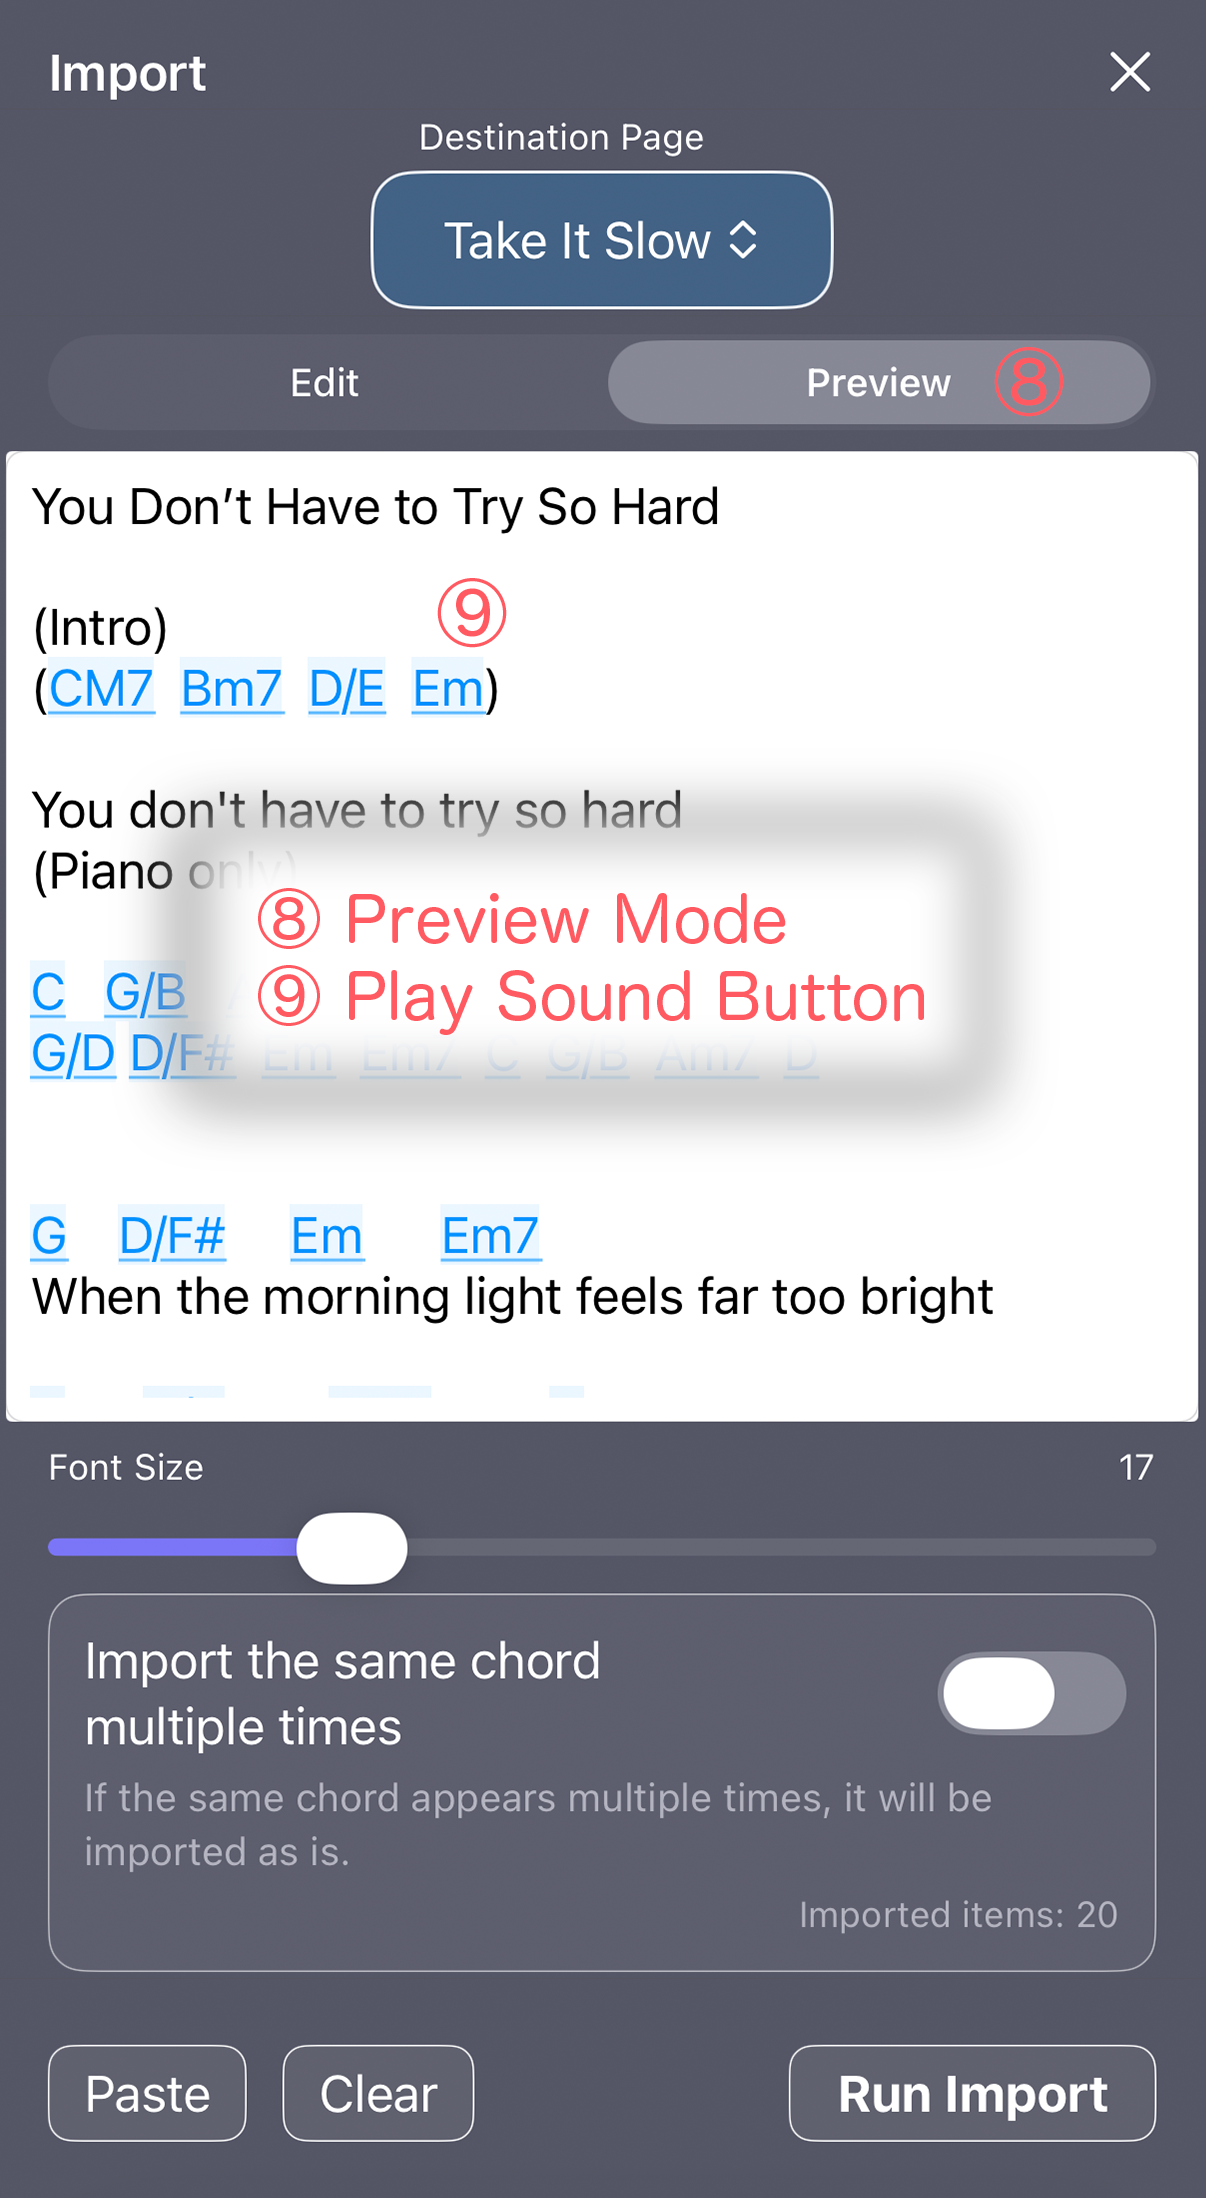
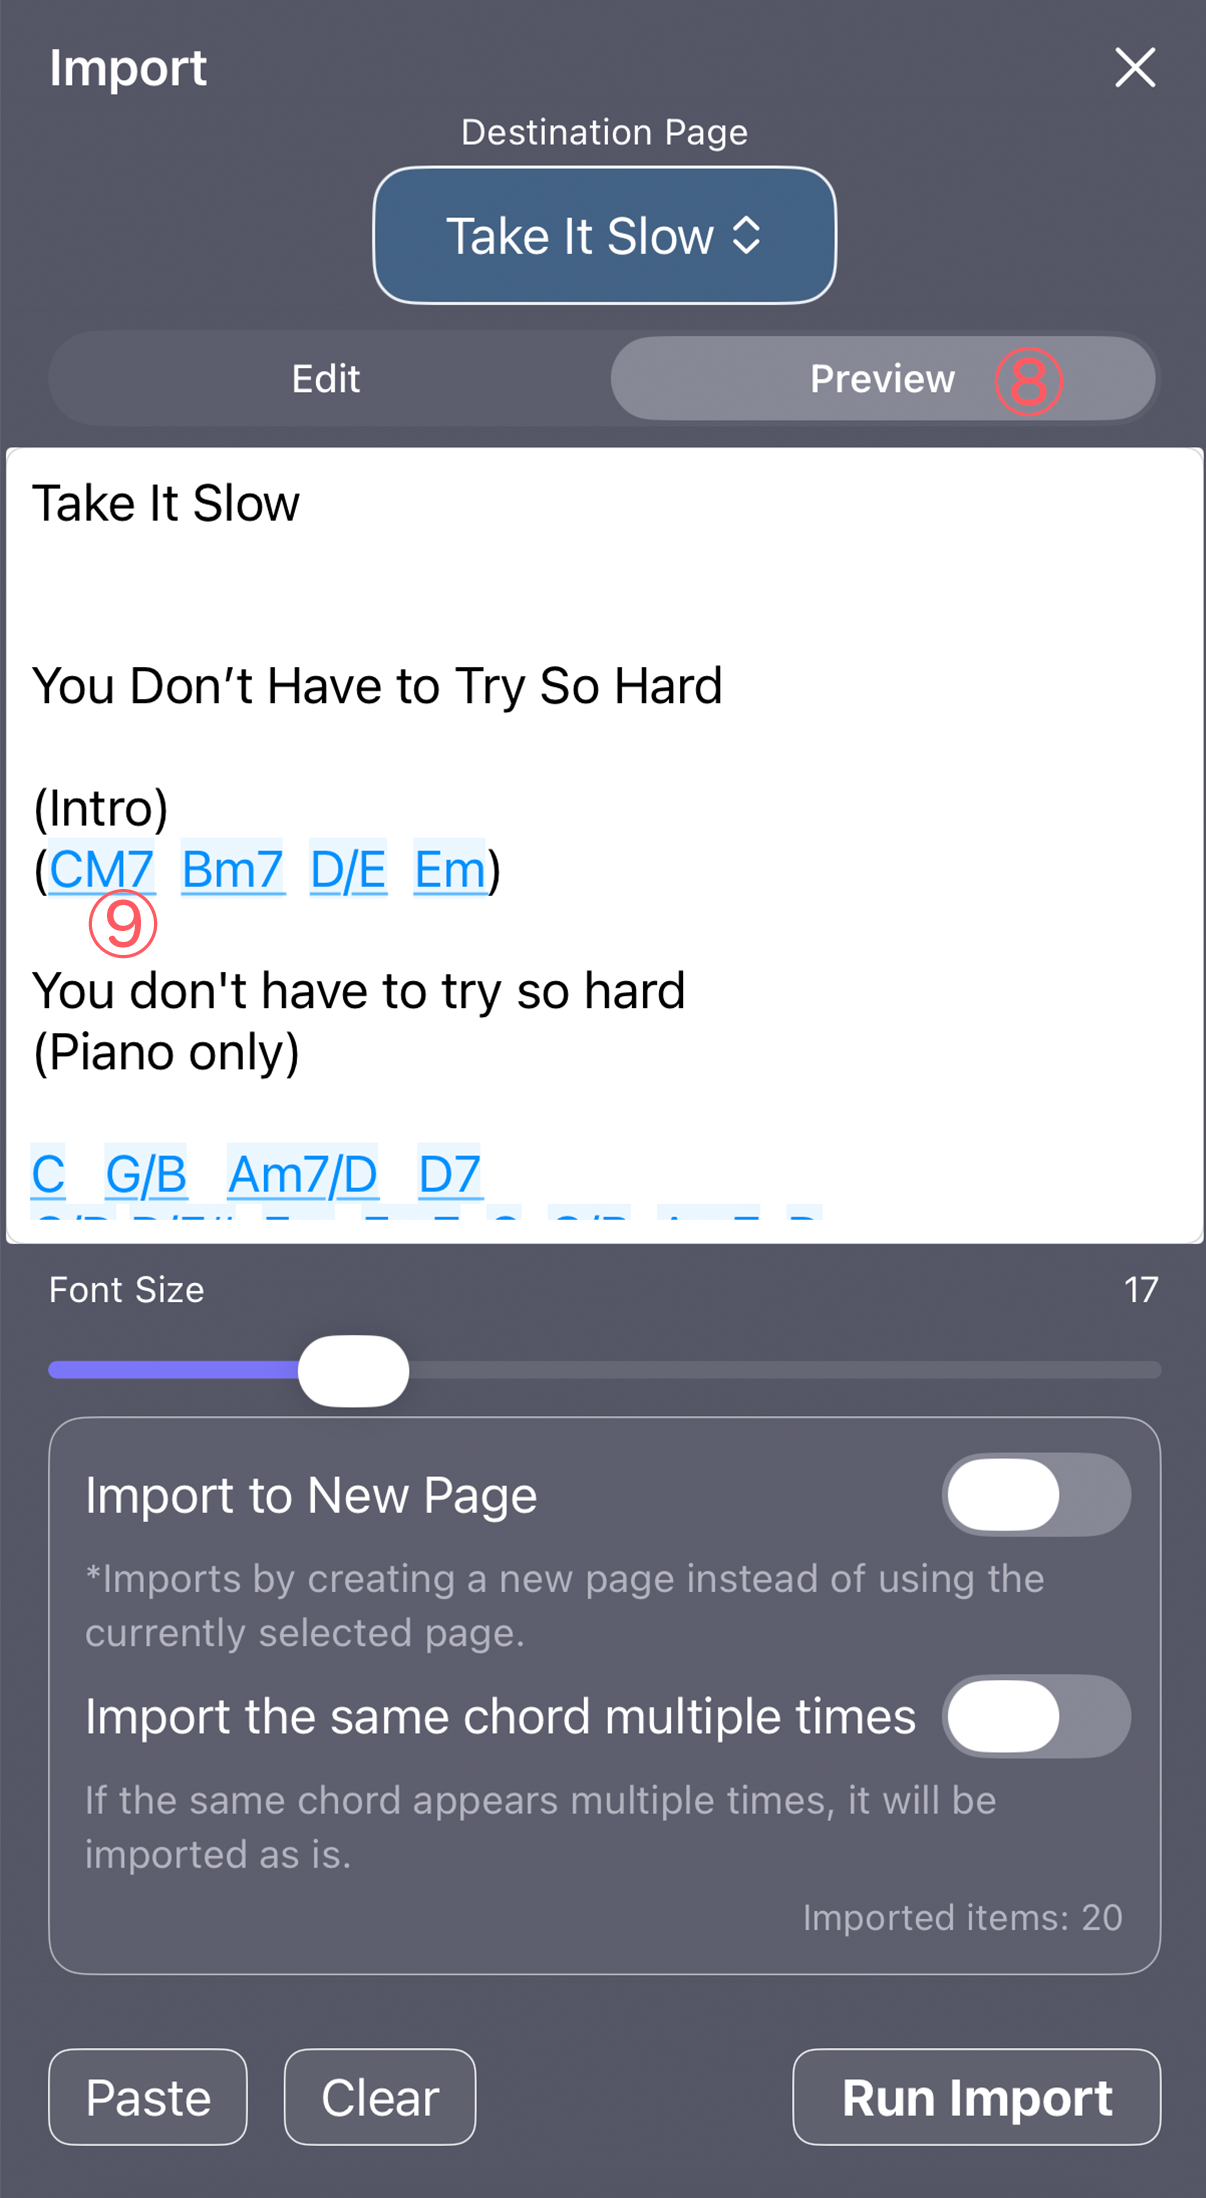
インポートのヘルプ修正

diff --git a/ja/apps/m-piano/help/03_01_import.html b/ja/apps/m-piano/help/03_01_import.html
@@ -119,16 +119,19 @@
 <p><strong>③ フォントサイズ変更スライダー</strong><br>
 表示文字サイズを調整します。編集モードとプレビューモードの両方に反映されます。</p>
 
-<p><strong>④ 同じコードを複数回取り込むスイッチ</strong><br>
+<p><strong>④ 新しいページに取り込むスイッチ</strong><br>
+オンにすると、選択中のページではなく新しいページを作ってインポートします。</p>
+
+<p><strong>⑤ 同じコードを複数回取り込むスイッチ</strong><br>
 オンにすると、同じコードが繰り返し出現してもそのまま取り込みます。</p>
 
-<p><strong>⑤ 貼り付けボタン</strong><br>
+<p><strong>⑥ 貼り付けボタン</strong><br>
 クリップボードのテキストを編集エリアに貼り付けます。</p>
 
-<p><strong>⑥ クリアボタン</strong><br>
+<p><strong>⑦ クリアボタン</strong><br>
 編集エリアの内容をすべて削除します。</p>
 
-<p><strong>⑦ インポート実行ボタン</strong><br>
+<p><strong>⑧ インポート実行ボタン</strong><br>
 解析されたコード進行をMemoに取り込みます（Pro版のみ）。</p>
 
 </section>

diff --git a/en/apps/m-piano/help/03_01_import.html b/en/apps/m-piano/help/03_01_import.html
@@ -120,16 +120,19 @@ Text area where you enter chord charts or chord sheets with lyrics. Chords are a
 <p><strong>③ Font Size Slider</strong><br>
 Adjusts the displayed text size. Applies to both Edit Mode and Preview Mode.</p>
 
-<p><strong>④ Import Same Chords Switch</strong><br>
+<p><strong>④ Import to a New Page Switch</strong><br>
+When turned on, the content will be imported into a newly created page instead of the currently selected page.</p>
+
+<p><strong>⑤ Import Same Chords Switch</strong><br>
 When enabled, repeated chords are imported as they appear.</p>
 
-<p><strong>⑤ Paste Button</strong><br>
+<p><strong>⑥ Paste Button</strong><br>
 Pastes text from the clipboard into the edit area.</p>
 
-<p><strong>⑥ Clear Button</strong><br>
+<p><strong>⑦ Clear Button</strong><br>
 Deletes all content in the edit area.</p>
 
-<p><strong>⑦ Import Button</strong><br>
+<p><strong>⑧ Import Button</strong><br>
 Imports the analyzed chord progression into Memo (Pro version only).</p>
 
 </section>
